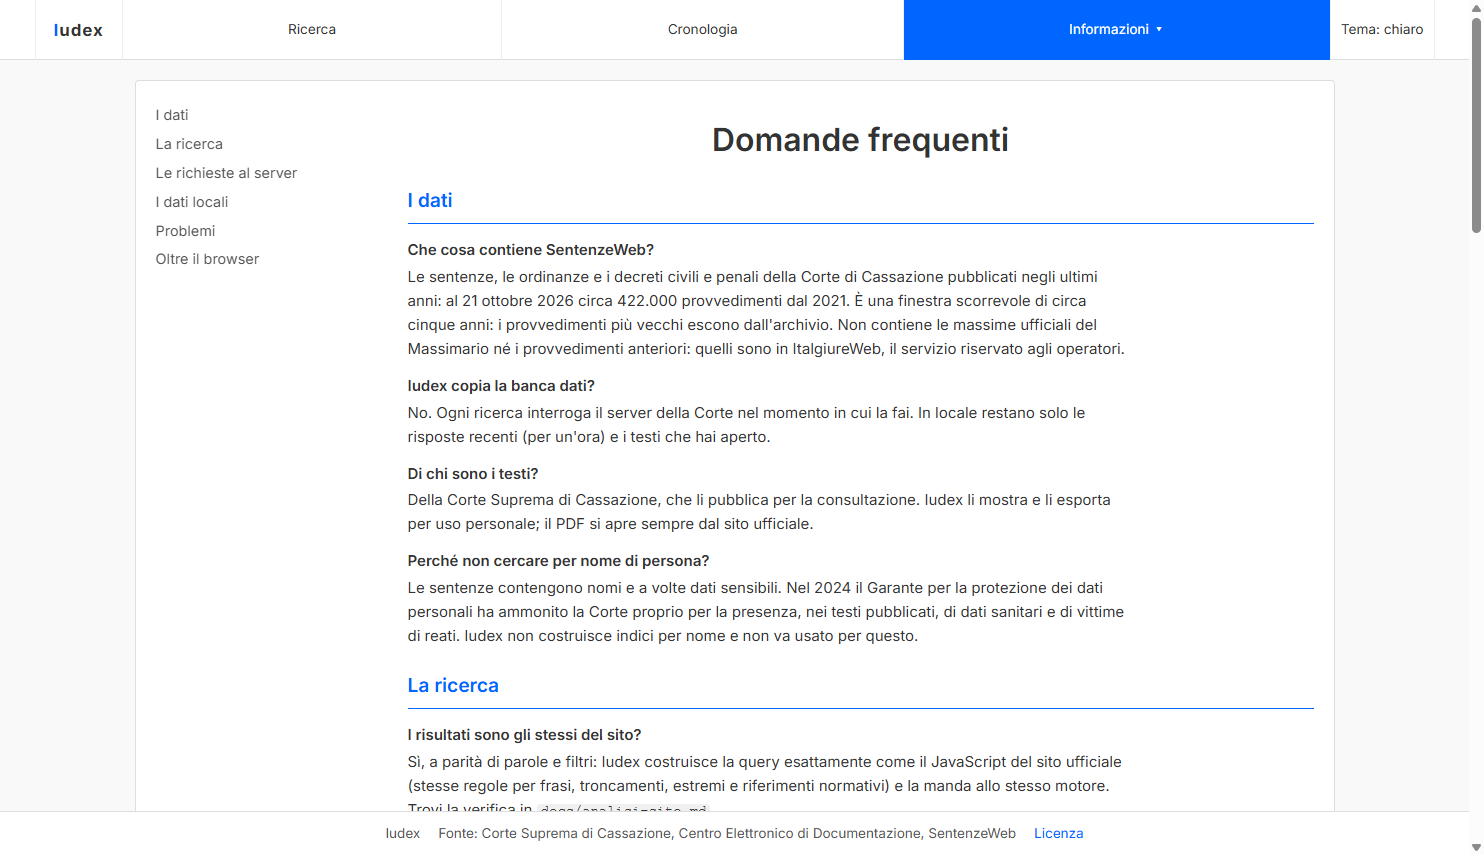
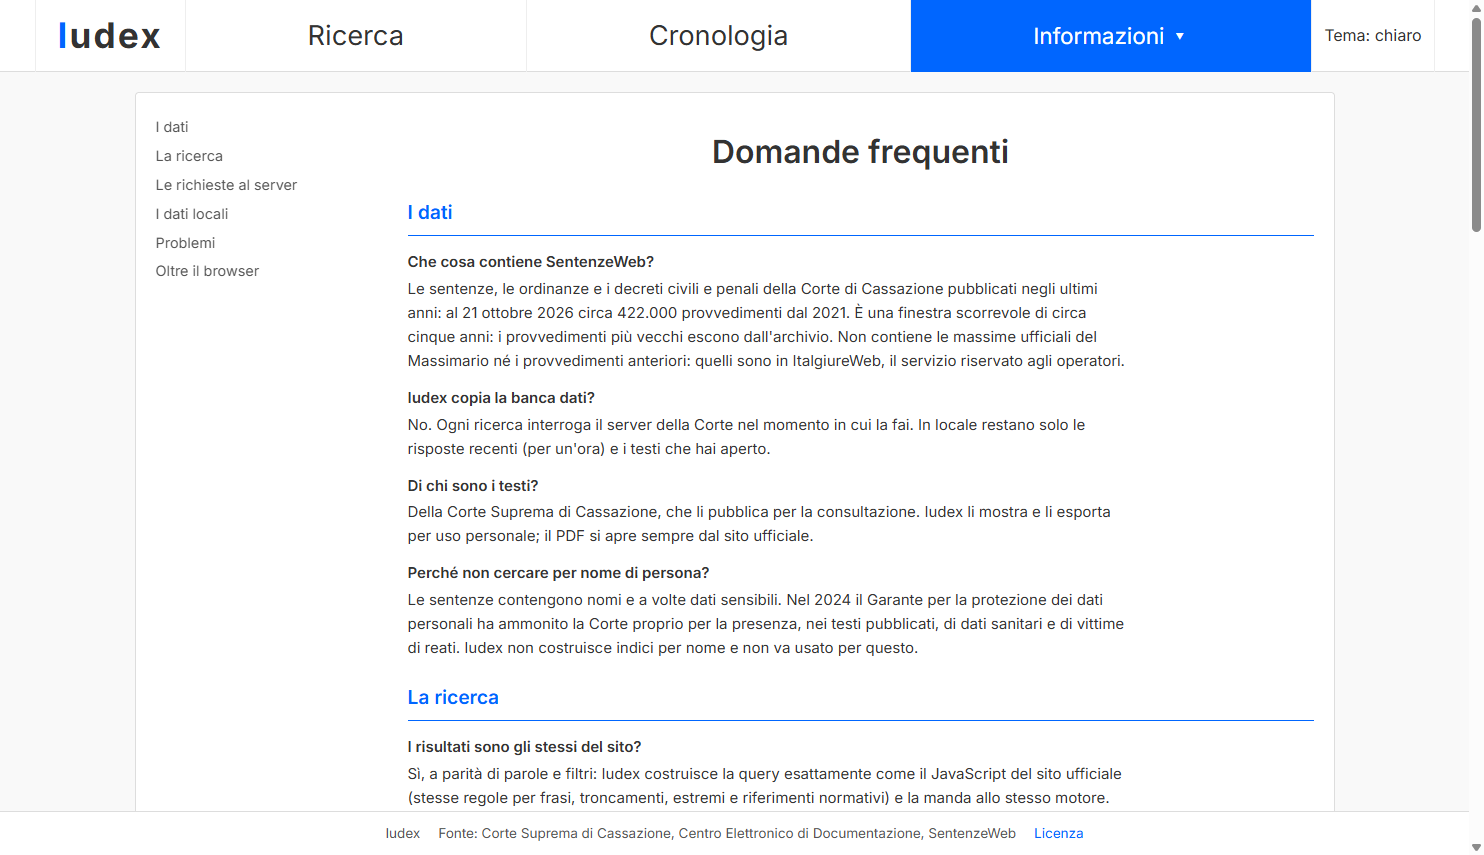
Barra di navigazione con voci e nome raddoppiati; schermate aggiornate

diff --git a/iudex/static/app.css b/iudex/static/app.css
@@ -54,7 +54,7 @@
   --larg-filtri: 248px;
   --larg-fascicolo: 46%;
   --carattere-testo: 16px;
-  --navbar: 60px;
+  --navbar: 72px;
   --footer: 44px;
   color-scheme: light;
 }
@@ -155,11 +155,12 @@ nav.navbar {
   align-items: center;
   justify-content: center;
   text-align: center;
-  font-size: 0.85rem;
+  font-size: 1.7rem;
   border-right: 1px solid var(--bordo-chiaro);
   transition: background-color 0.2s ease-in, color 0.2s ease-in;
-  padding: 0 10px;
+  padding: 0 12px;
   user-select: none;
+  white-space: nowrap;
 }
 
 .menu > li:first-child { border-left: 1px solid var(--bordo-chiaro); }
@@ -169,10 +170,12 @@ nav.navbar {
 .menu > li > a { color: inherit; text-decoration: none; }
 .menu > li > button { background: none; border: none; padding: 0; color: inherit; font-size: inherit; }
 
-.menu > li.marchio { flex: 0 0 auto; font-weight: 700; font-size: 1.05rem; letter-spacing: 0.06em; padding: 0 18px; }
+.menu > li.marchio { flex: 0 0 auto; font-weight: 700; font-size: 2.2rem; letter-spacing: 0.06em; padding: 0 22px; }
 .menu > li.marchio > a::first-letter { color: var(--primary-color); }
 .menu > li.marchio:hover > a::first-letter { color: #fff; }
-.menu > li.stretta { flex: 0 0 auto; }
+.menu > li.stretta { flex: 0 0 auto; font-size: 1rem; }
+.menu > li.con-sottomenu > span { font-size: 1.4rem; }
+@media (max-width: 1400px) { .menu > li { font-size: 1.3rem; } .menu > li.marchio { font-size: 1.8rem; } .menu > li.con-sottomenu > span { font-size: 1.15rem; } }
 .menu > li > button.attivo { font-weight: 700; text-decoration: underline; }
 .menu > li.con-sottomenu > span::after { content: ""; }
 
@@ -632,7 +635,8 @@ main.informativa {
 }
 
 @media (max-width: 820px) {
-  .menu > li { font-size: 0.75rem; padding: 0 6px; }
+  .menu > li { font-size: 0.95rem; padding: 0 6px; }
+  .menu > li.marchio { font-size: 1.3rem; }
   .ricerca { grid-template-columns: 1fr 1fr; }
   .campo-testo, .campo-rif { grid-column: 1 / -1; }
   .corpo, .corpo.con-fascicolo { grid-template-columns: 1fr; gap: 12px; padding: 12px; }
